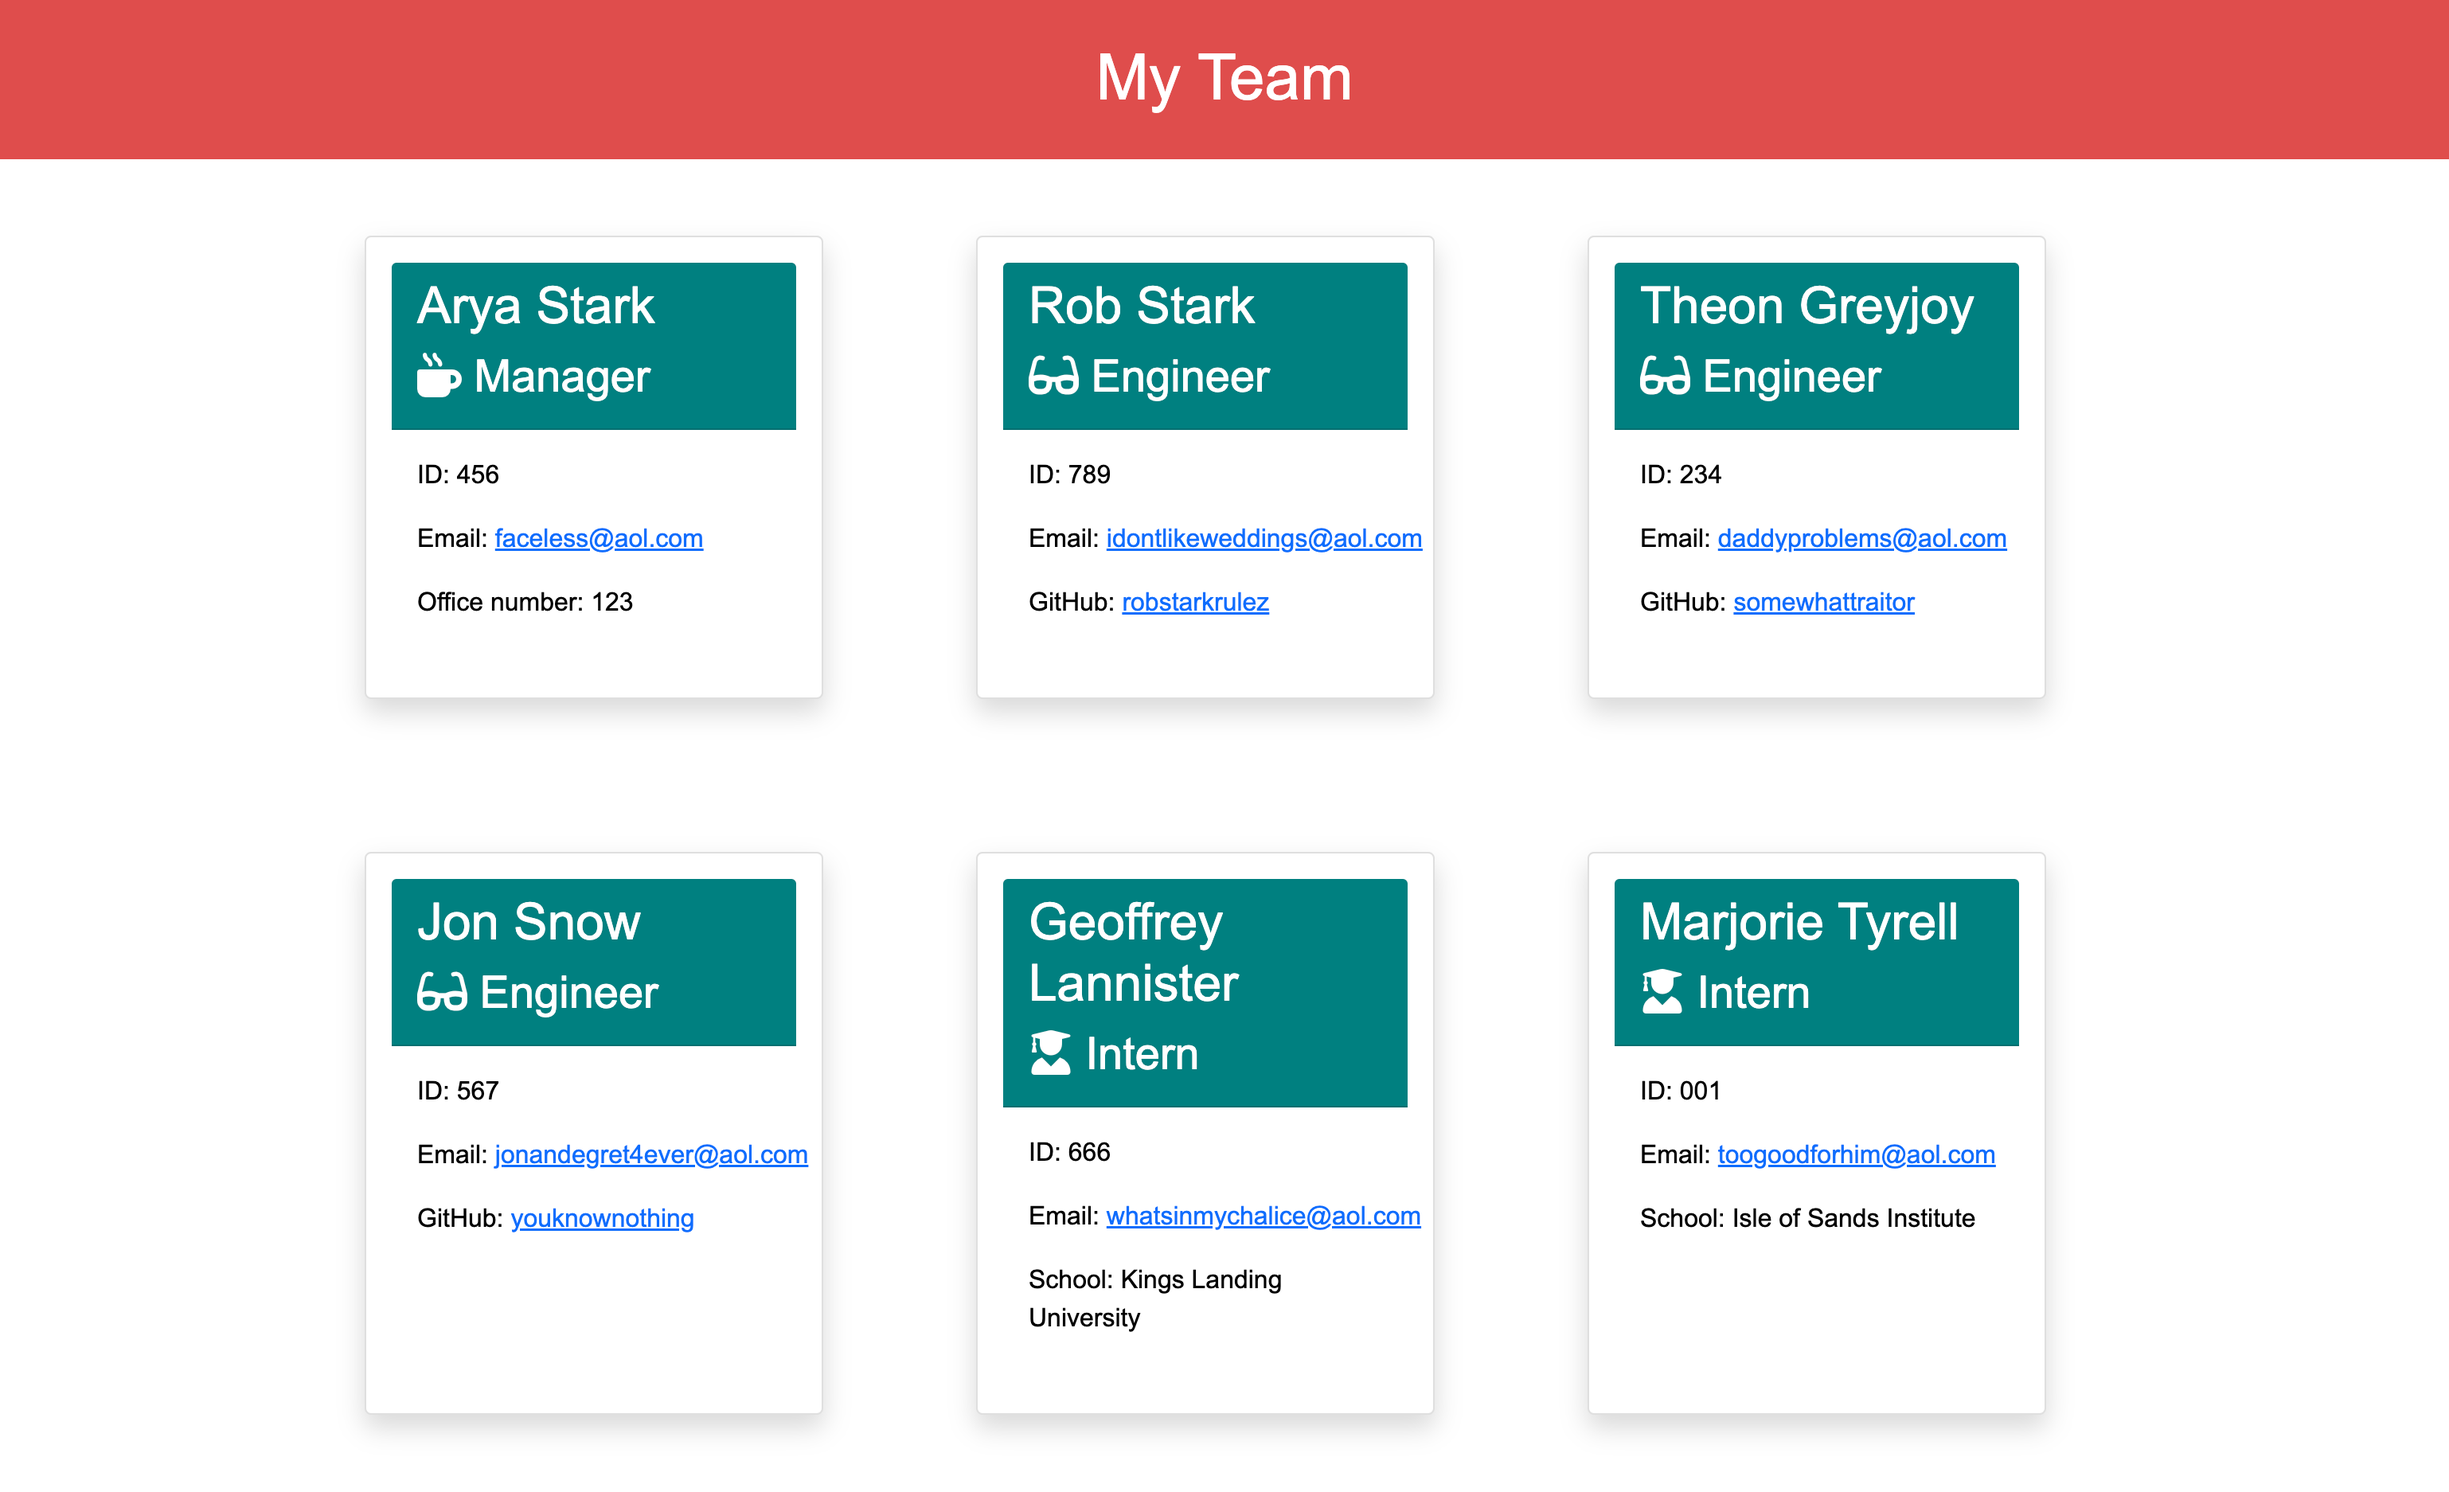
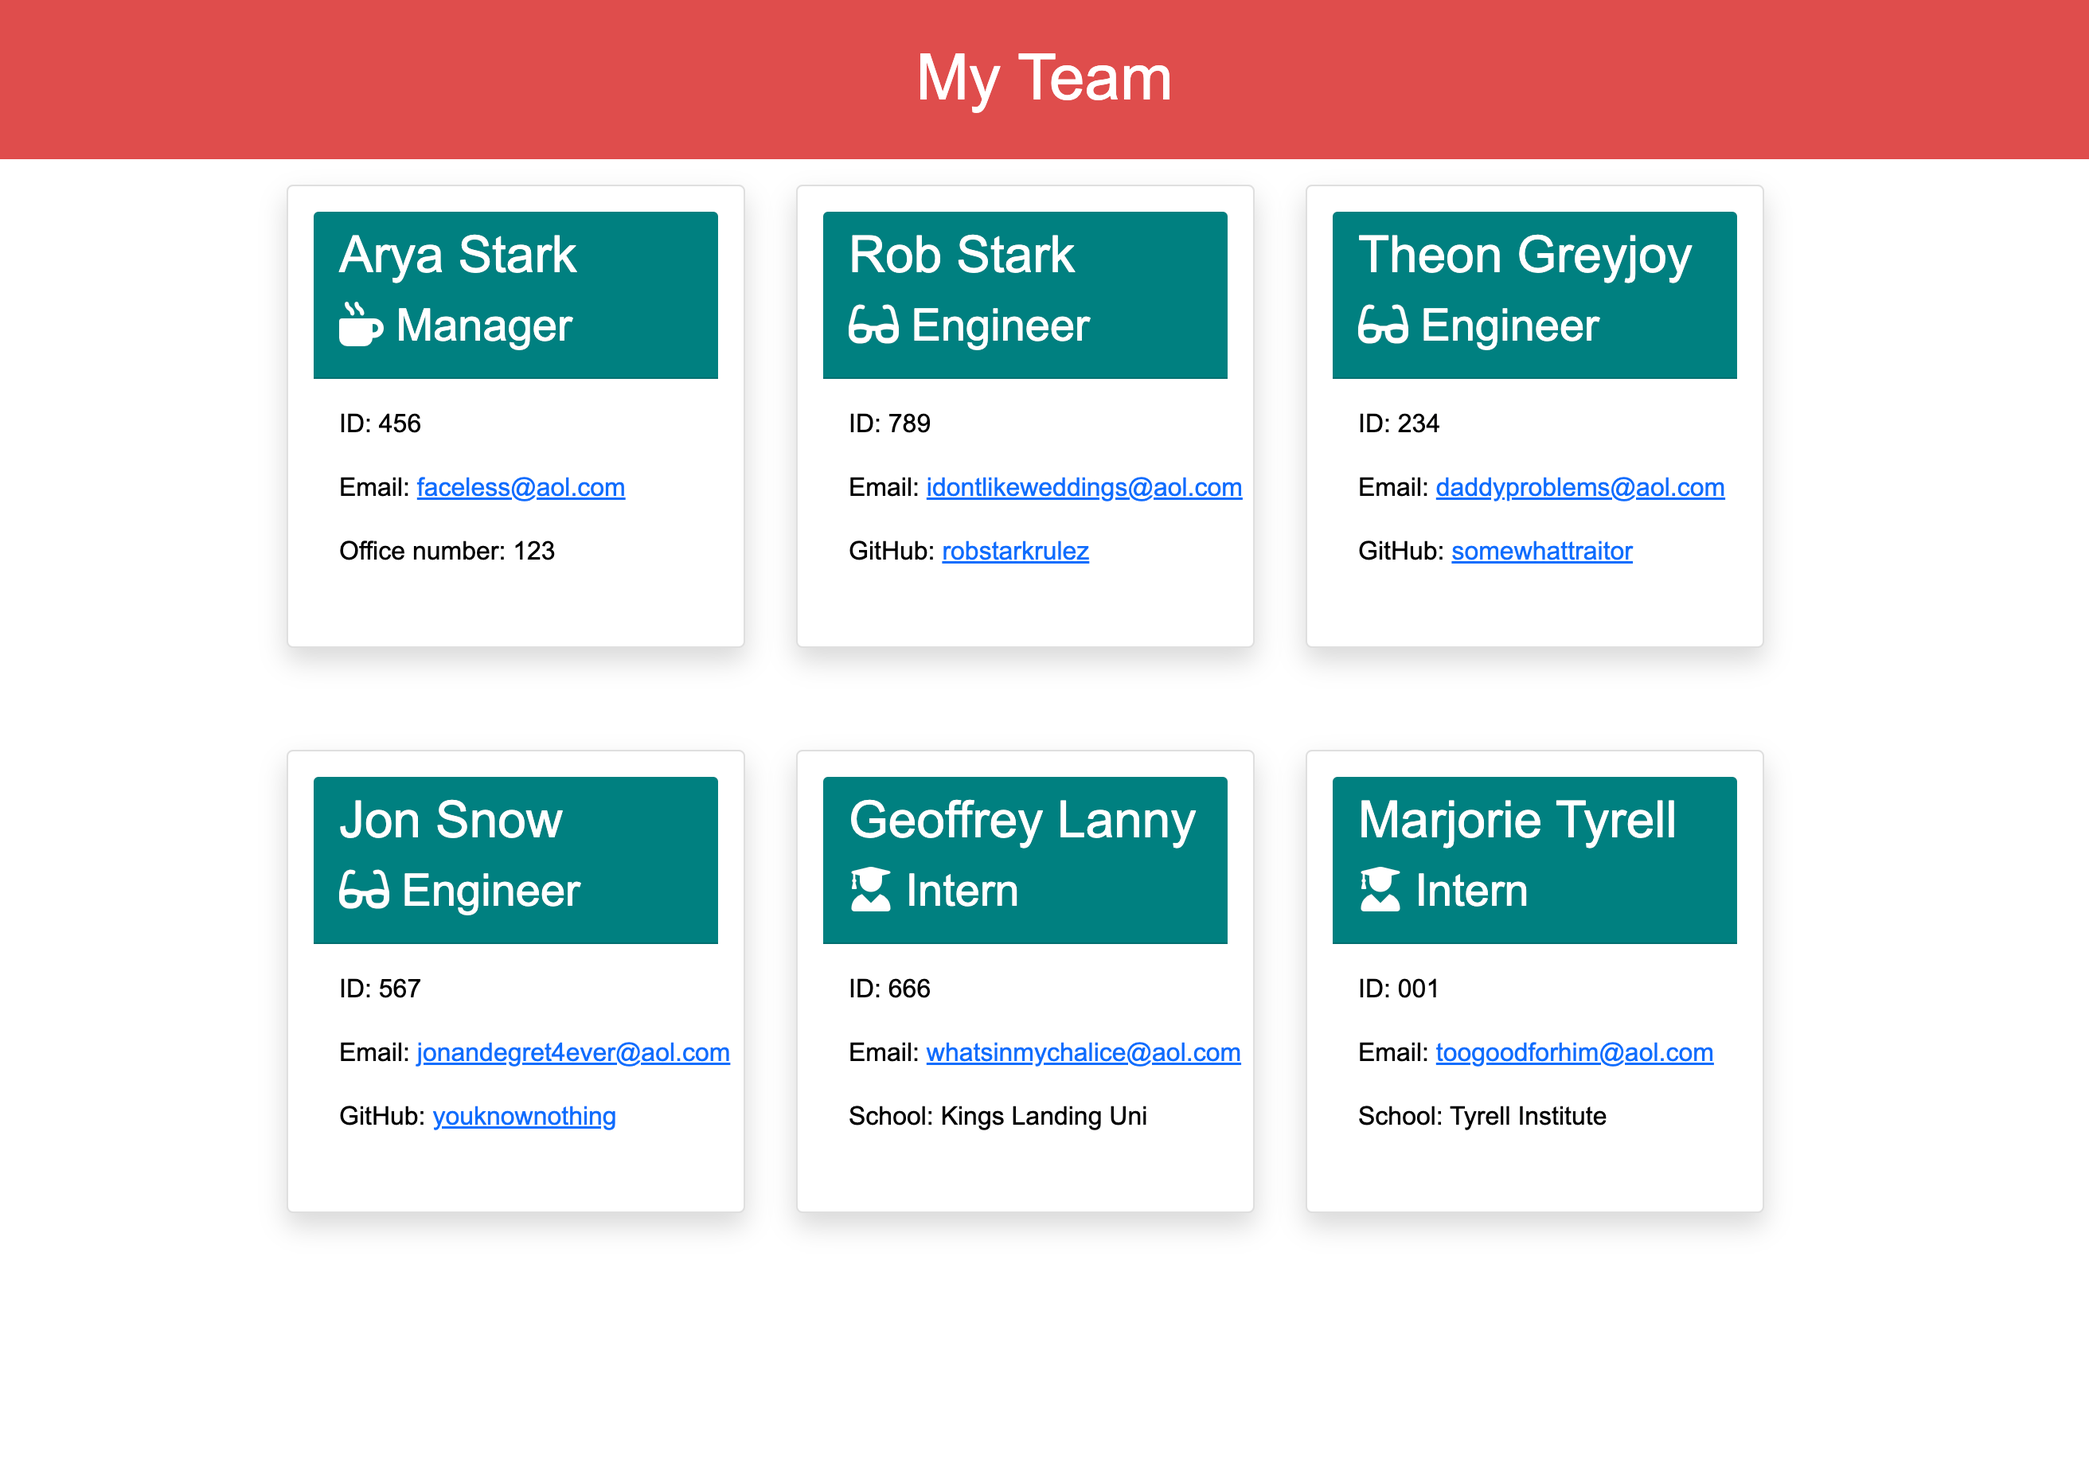
generated sample.html for grading

diff --git a/dist/sample.html b/dist/sample.html
@@ -15,7 +15,7 @@
   </header>
   <main>
     <div class="container-fluid row justify-content-center d-flex flex-wrap">
-        <div class="card m-5 shadow p-3 mb-5 bg-body rounded" style="width: 18rem;">
+        <div class="card m-3 shadow p-3 mb-5 bg-body rounded" style="width: 18rem;">
       <div class="card-header">
         <h2>Arya Stark</h2>
         <h3><i class="fa-solid fa-mug-hot"></i> Manager</i></h3>
@@ -26,7 +26,7 @@
         Office number: 123
       </div>
     </div>
-  <div class="card m-5 shadow p-3 mb-5 bg-body rounded" style="width: 18rem;">
+  <div class="card m-3 shadow p-3 mb-5 bg-body rounded" style="width: 18rem;">
       <div class="card-header">
         <h2>Rob Stark</h2>
         <h3><i class="fa-solid fa-glasses"></i> Engineer</i></h3>
@@ -37,7 +37,7 @@
         <p class="d-flex bd-highlight">GitHub:&nbsp;<a href="https://github.com/robstarkrulez" class="card-link" target="_blank"> robstarkrulez</a></p>
       </div>
     </div>
-  <div class="card m-5 shadow p-3 mb-5 bg-body rounded" style="width: 18rem;">
+  <div class="card m-3 shadow p-3 mb-5 bg-body rounded" style="width: 18rem;">
       <div class="card-header">
         <h2>Theon Greyjoy</h2>
         <h3><i class="fa-solid fa-glasses"></i> Engineer</i></h3>
@@ -48,7 +48,7 @@
         <p class="d-flex bd-highlight">GitHub:&nbsp;<a href="https://github.com/somewhattraitor" class="card-link" target="_blank"> somewhattraitor</a></p>
       </div>
     </div>
-  <div class="card m-5 shadow p-3 mb-5 bg-body rounded" style="width: 18rem;">
+  <div class="card m-3 shadow p-3 mb-5 bg-body rounded" style="width: 18rem;">
       <div class="card-header">
         <h2>Jon Snow</h2>
         <h3><i class="fa-solid fa-glasses"></i> Engineer</i></h3>
@@ -59,18 +59,18 @@
         <p class="d-flex bd-highlight">GitHub:&nbsp;<a href="https://github.com/youknownothing" class="card-link" target="_blank"> youknownothing</a></p>
       </div>
     </div>
-  <div class="card m-5 shadow p-3 mb-5 bg-body rounded" style="width: 18rem;">
+  <div class="card m-3 shadow p-3 mb-5 bg-body rounded" style="width: 18rem;">
       <div class="card-header">
-        <h2>Geoffrey Lannister</h2>
+        <h2>Geoffrey Lanny</h2>
         <h3><i class="fa-solid fa-user-graduate"></i> Intern</i></h3>
       </div>
       <div class="card-body">
         <p class="d-flex bd-highlight">ID: 666</p>
         <p class="d-flex bd-highlight">Email:&nbsp;<a href="mailto:whatsinmychalice@aol.com" class="card-link">whatsinmychalice@aol.com</a></p>
-        <p class="">School: Kings Landing University</p>
+        <p class="">School: Kings Landing Uni</p>
       </div>
     </div>
-  <div class="card m-5 shadow p-3 mb-5 bg-body rounded" style="width: 18rem;">
+  <div class="card m-3 shadow p-3 mb-5 bg-body rounded" style="width: 18rem;">
       <div class="card-header">
         <h2>Marjorie Tyrell</h2>
         <h3><i class="fa-solid fa-user-graduate"></i> Intern</i></h3>
@@ -78,7 +78,7 @@
       <div class="card-body">
         <p class="d-flex bd-highlight">ID: 001</p>
         <p class="d-flex bd-highlight">Email:&nbsp;<a href="mailto:toogoodforhim@aol.com" class="card-link">toogoodforhim@aol.com</a></p>
-        <p class="">School: Isle of Sands Institute</p>
+        <p class="">School: Tyrell Institute</p>
       </div>
     </div>
 
